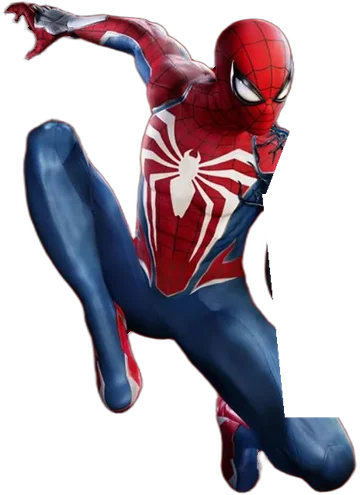
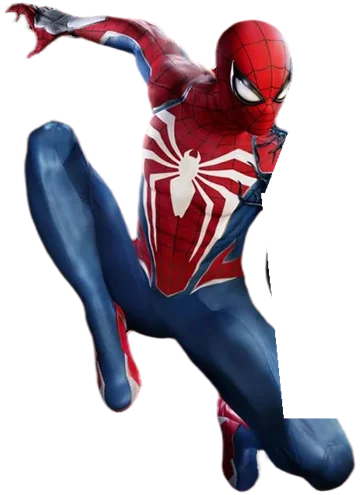
r14 hotfix: solid cutout edges (defringe), spider-arms opaque, no horizontal overflow, crop MARVEL credit, v=16

diff --git a/hg.css b/hg.css
@@ -516,14 +516,14 @@ html.hg-paged body{overflow:hidden}html.hg-paged .hg-nav{z-index:95}
 .hgx-pop{top:auto!important;bottom:calc(330px + env(safe-area-inset-bottom));width:min(88vw,520px)!important}
 @media (min-width:900px){.hgx-pop{bottom:18%}}
 /* --- Round 13: feature layouts (2D only, WebView-safe) --- */
-.hg-feat{padding:0 0 44px!important;background:#0B0809!important}
+.hg-feat[class*=fx-]{padding:0 0 44px!important;background:#0B0809!important}
 .hg-feat .fx-art{position:relative;height:440px;margin:0 0 6px}
 .hg-feat .fx-p{position:absolute;overflow:hidden;background:#111}
 .hg-feat .fx-p img{width:100%;height:100%;object-fit:cover;display:block}
-.hg-feat .hg-feat-cut{position:absolute;z-index:4;margin:0!important;filter:drop-shadow(0 24px 30px rgba(0,0,0,.75))}
-.hg-feat .hg-feat-txt{position:relative;z-index:5;padding:0 18px;max-width:640px;margin:0 auto;text-align:left!important}
-.hg-feat .hg-feat-txt h2{text-transform:uppercase;letter-spacing:.01em;font-size:clamp(32px,8.6vw,58px);line-height:.96}
-.hg-feat .hg-eyebrow{font:700 11px ui-monospace,monospace;letter-spacing:.18em;text-transform:uppercase}
+.hg-feat[class*=fx-] .hg-feat-cut{position:absolute;z-index:4;margin:0!important;filter:drop-shadow(0 24px 30px rgba(0,0,0,.75))}
+.hg-feat[class*=fx-] .hg-feat-txt{position:relative;z-index:5;padding:0 18px;max-width:640px;margin:0 auto;text-align:left!important}
+.hg-feat[class*=fx-] .hg-feat-txt h2{text-transform:uppercase;letter-spacing:.01em;font-size:clamp(32px,8.6vw,58px);line-height:.96}
+.hg-feat[class*=fx-] .hg-eyebrow{font:700 11px ui-monospace,monospace;letter-spacing:.18em;text-transform:uppercase}
 /* 1 bleed: full-bleed backdrop, two framed panels, cutout breaks the frame */
 .fx-bleed .fx-p0{inset:0 0 40px 0;clip-path:polygon(0 0,100% 0,100% 86%,0 100%)}
 .fx-bleed .fx-p0::after{content:"";position:absolute;inset:0;background:linear-gradient(180deg,rgba(11,8,9,.15),rgba(11,8,9,.35) 60%,#0B0809)}
@@ -576,3 +576,9 @@ section[id],footer[id]{scroll-margin-top:78px}
 .hgf-head h2,.hgf-hrs{text-shadow:0 2px 14px rgba(0,0,0,.9)}
 .hgf-map{grid-column:1/-1;border-radius:20px;overflow:hidden;border:1px solid rgba(255,255,255,.1);height:190px;background:#151012}
 .hgf-map iframe{width:100%;height:100%;border:0;display:block;filter:grayscale(.2) contrast(1.05)}
+/* r14: no horizontal overflow (content-visibility override removed implicit clipping) */
+html,body{overflow-x:clip;max-width:100%}
+.hg-games,.hg-feat,.hgf{overflow-x:hidden}
+main>section,.section,.hg-games,.hg-feat,.hgx,.hgf,section{overflow-x:clip}
+.fx-bleed .hg-feat-cut{width:116%!important;max-width:none!important;-webkit-mask:none!important;mask:none!important}
+.hg-feat-cut{-webkit-mask:none!important;mask:none!important;opacity:1!important}

diff --git a/hg.js b/hg.js
@@ -6,7 +6,7 @@
   const IN_APP = /HunterGameApp/i.test(navigator.userAgent);
   const IS_ANDROID = /Android/i.test(navigator.userAgent);
   const store = { get: k => { try { return JSON.parse(localStorage.getItem('hg.' + k)); } catch { return null; } }, set: (k, v) => { try { localStorage.setItem('hg.' + k, JSON.stringify(v)); } catch {} } };
-  const I = n => '/img/' + n + '?v=10';
+  const I = n => '/img/' + n + '?v=12';
   const POSTERS = Array.from({ length: 12 }, (_, i) => I(`card-${String(i + 1).padStart(2, '0')}.webp`));
   const LOGO = I('hg-logo.png');
   const sv = (p, w = 30) => `<svg class="hg-svg" width="${w}" height="${w}" viewBox="0 0 24 24" fill="none" stroke="currentColor" stroke-width="2" stroke-linecap="round" stroke-linejoin="round" aria-hidden="true">${p}</svg>`;
@@ -549,7 +549,8 @@
     FEATS.forEach((f, i) => {
       const d = document.createElement('section'); d.className = 'hg-feat fx-' + f.lay; d.style.setProperty('--glow', f.glow); d.setAttribute('aria-label', f.alt);
       const pics = f.bg.map((b, k) => `<div class="fx-p fx-p${k}"><img src="${I(b + '.webp')}" alt="" loading="lazy" decoding="async"></div>`).join('');
-      d.innerHTML = `<div class="fx-art">${pics}<img class="hg-feat-cut" src="${I(f.img)}" alt="${f.alt}" loading="lazy" decoding="async"></div>
+      if (f.lay === 'plain') { d.className = 'hg-feat'; d.innerHTML = `<div class="hg-feat-in"><img class="hg-feat-cut" src="${I(f.img)}" alt="${f.alt}" loading="lazy" decoding="async"><div class="hg-feat-txt"><p class="hg-eyebrow">${f.kick}</p><h2>${f.h}</h2><p>${f.p}</p><button class="hg-btn p" data-feat="${f.id}">Book this game${ARW}</button></div></div>`; }
+      else d.innerHTML = `<div class="fx-art">${pics}<img class="hg-feat-cut" src="${I(f.img)}" alt="${f.alt}" loading="lazy" decoding="async"></div>
         <div class="hg-feat-txt"><p class="hg-eyebrow">${f.kick}</p><h2>${f.h}</h2>
         <p>${f.p}</p><button class="hg-btn p" data-feat="${f.id}">Book this game${ARW}</button></div>`;
       at.after(d); at = d;
@@ -626,5 +627,5 @@
   if (!store.get('user') && !store.get('guest')) openLogin(); else afterLogin();
   selfUpdateCheck();
 
-  window.HG = { ordersPopup, gamePopup, games: () => GAMES, snacksPopup, accountPopup, live: LIVE, openBook, snackAdded, openLogin, appPopup, chooseConsole, consolePopup, cookie: () => cookieEl.classList.add('on'), hide };
+  window.HG = { ordersPopup, gamePopup, games: () => GAMES, snacksPopup, accountPopup, live: LIVE, openBook, snackAdded, openLogin, appPopup, chooseConsole, consolePopup, rentPopup, cookie: () => cookieEl.classList.add('on'), hide };
 })();

diff --git a/index.html b/index.html
@@ -458,7 +458,7 @@ legend{width:100%;padding:0;margin-bottom:14px;display:flex;align-items:baseline
   *:not(.hgl-col):not(.hg-lt-st em):not(.hg-stn .pulse),*::before,*::after{animation:none!important;transition:none!important}
 }
 </style>
-<link rel="stylesheet" href="/hg.css?v=15">
+<link rel="stylesheet" href="/hg.css?v=16">
 </head>
 <body>
 
@@ -1257,5 +1257,5 @@ legend{width:100%;padding:0;margin-bottom:14px;display:flex;align-items:baseline
 })();
 </script>
 
-<script src="/hg.js?v=15" defer></script>
+<script src="/hg.js?v=16" defer></script>
 </body></html>
